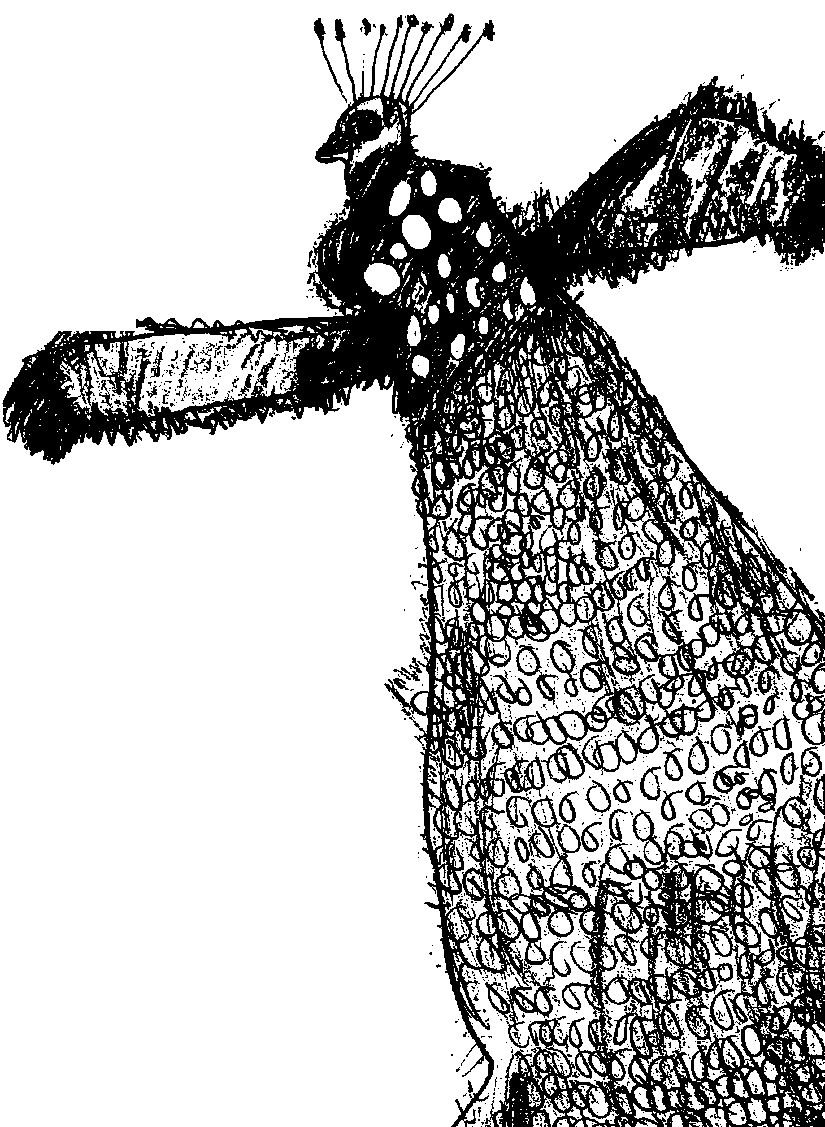
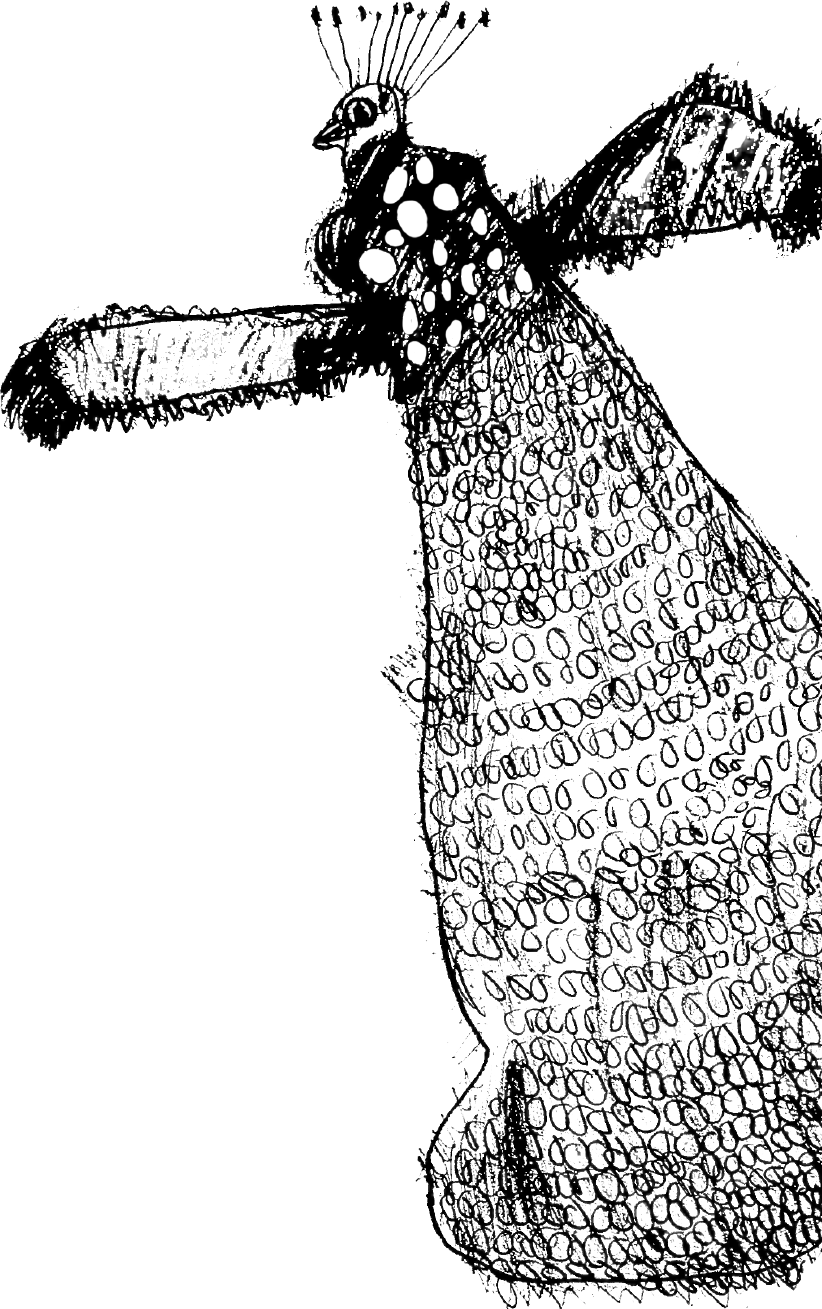
Fix peacock: use complete tapering-tail drawing from client source
Replace home_peacock.png with the full peacock from the client's Home Page
source (sito-22), which tapers to a point instead of being cut flat at the
bottom. Widen max-width 40rem->44rem to match the reference proportions.

Claude-Session: https://claude.ai/code/session_01MQfLeumYifWnwYtJr6nAFq

diff --git a/css/style.css b/css/style.css
@@ -115,7 +115,7 @@ ul{list-style:none}
 .bullet{width:1em;height:1em;border:none;border-radius:0;flex:0 0 auto;background:url("../assets/img/bullet_flower.png") center/contain no-repeat;align-self:center}
 .insieme .split--center{position:relative}
 .insieme__media{display:block}
-.insieme__media .peacock{width:100%;max-width:40rem;margin-inline:auto;display:block}
+.insieme__media .peacock{width:100%;max-width:44rem;margin-inline:auto;display:block}
 .insieme__media .note-esplosione{display:block;width:30rem;max-width:100%;margin:1.5rem auto 0}
 
 /* ---------- claim ---------- */
